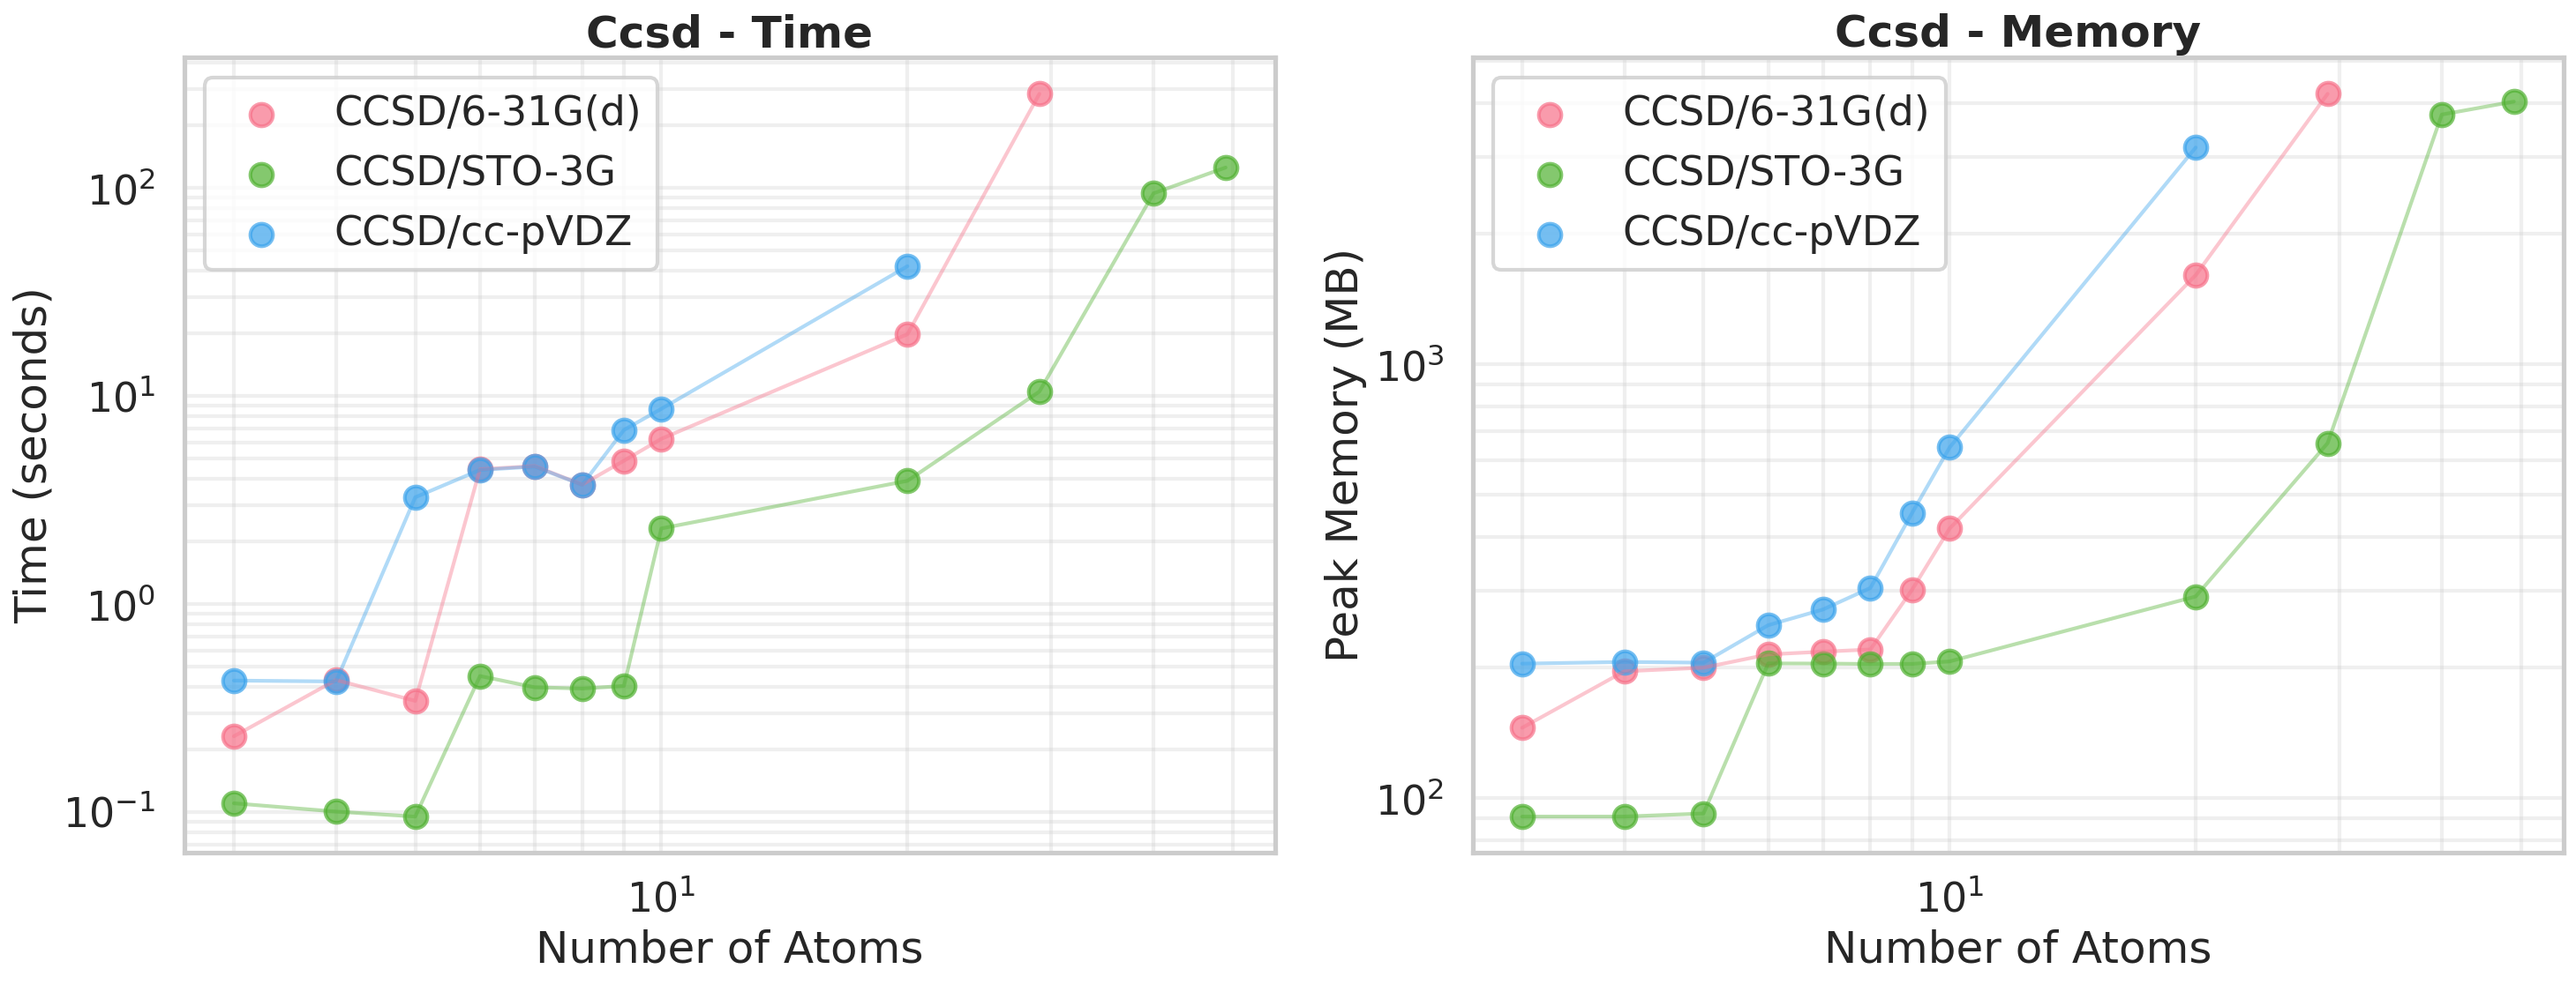
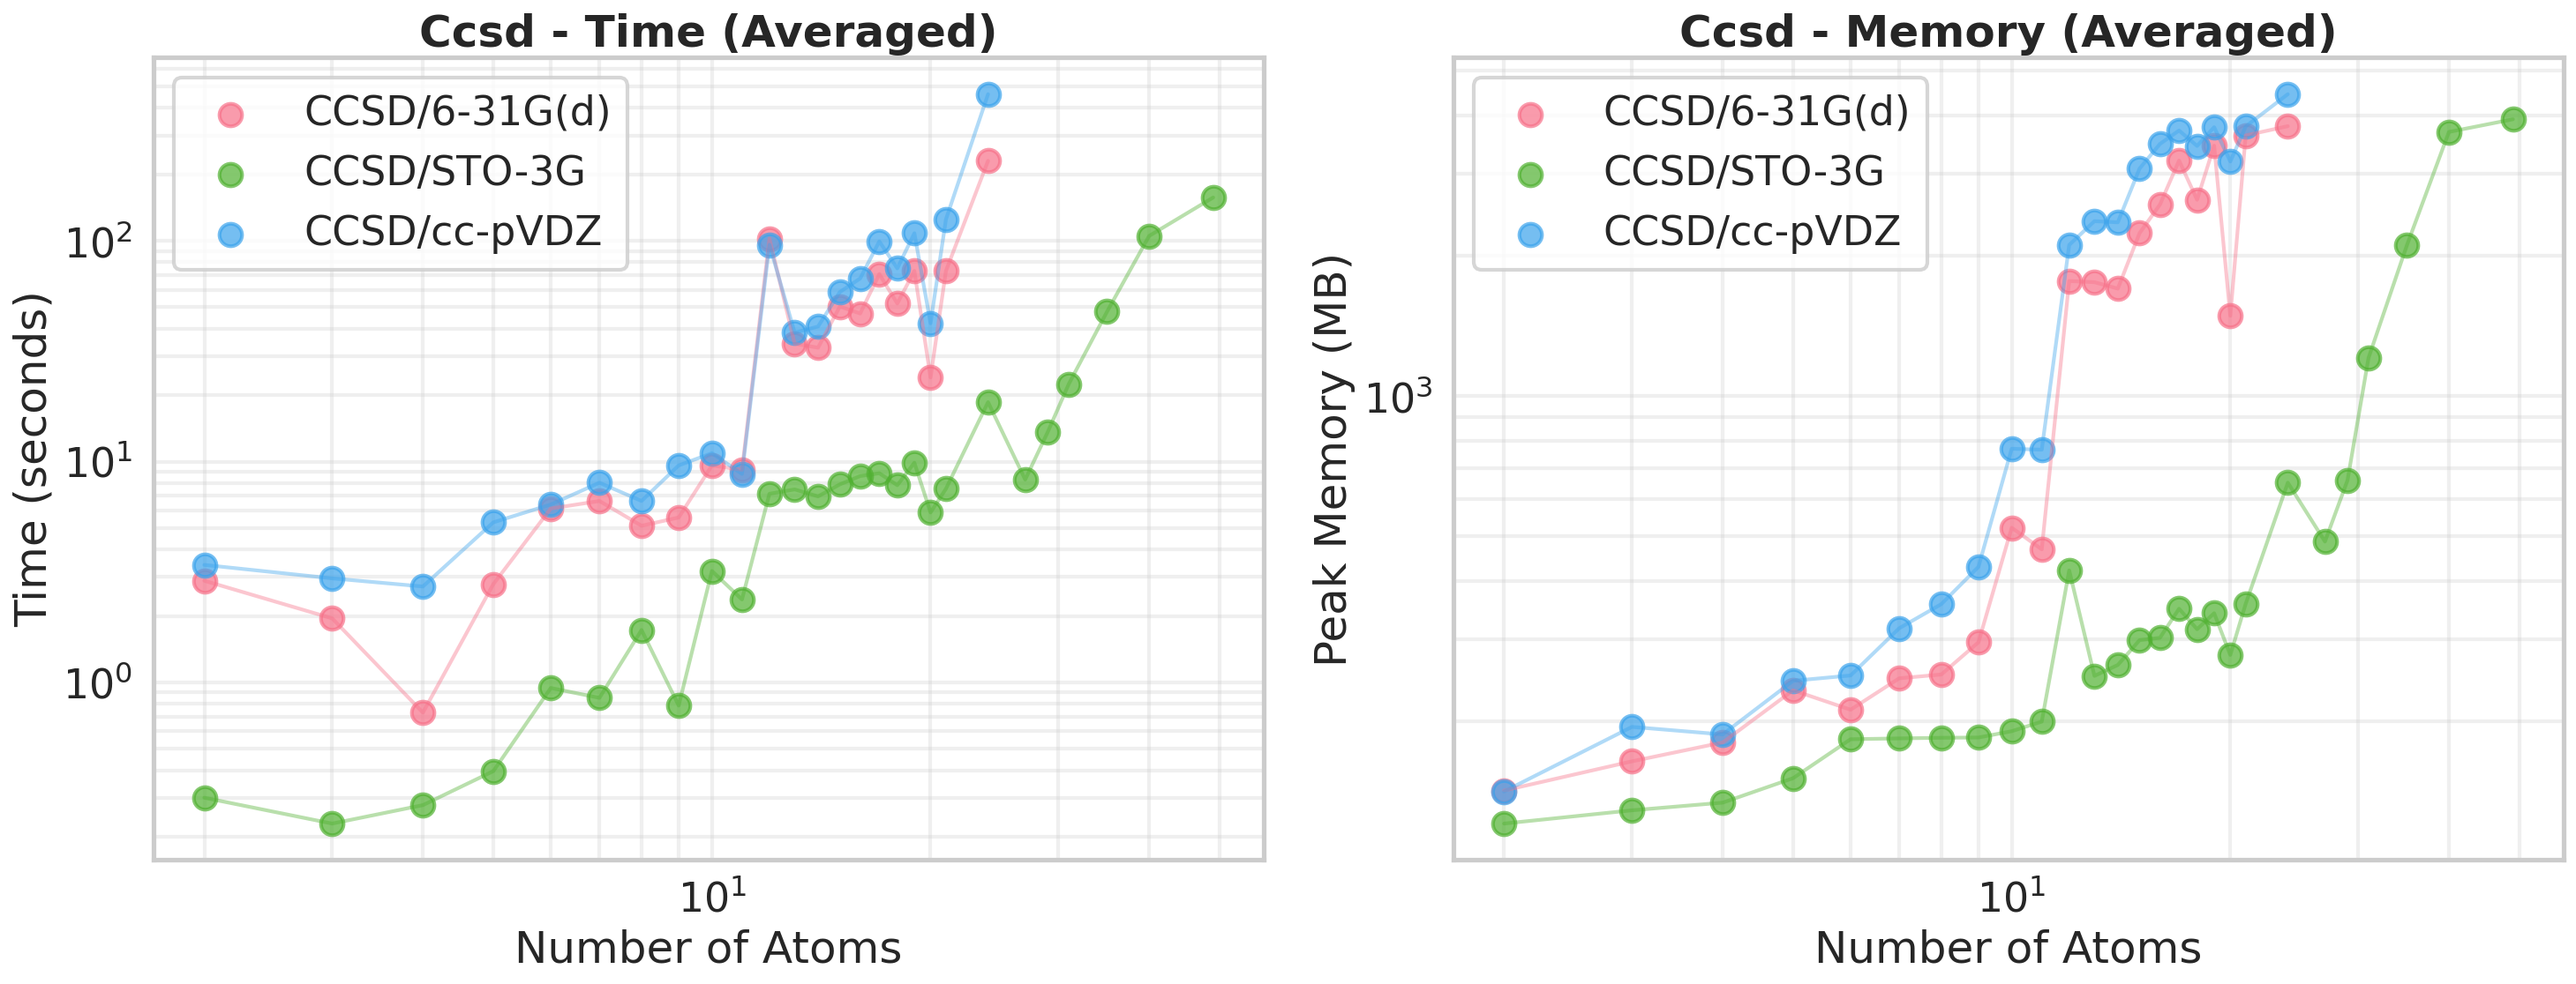
average over 3 attempts

diff --git a/scripts/plot_scaling.py b/scripts/plot_scaling.py
@@ -16,8 +16,14 @@ sns.set_theme(style="whitegrid", context="poster")
 results_file = "results/results_600.csv"
 df = pd.read_csv(results_file)
 
+# Exclude rows with a non-empty error_message
+df = df[df['error_message'].isna() | (df['error_message'] == '')]
+
 # Filter only successful calculations
 df_success = df[df['success'] == True].copy()
+
+# Exclude all rows where the time is the max time (600)
+df_success = df_success[df_success['time_seconds'] < 600]
 
 print(f"Total calculations: {len(df)}")
 print(f"Successful: {len(df_success)}")
@@ -38,108 +44,87 @@ df_plot_data = df_success.groupby(['method_label', 'natoms']).agg(
     method_category=('method_category', 'first')
 ).reset_index()
 
-
-# For combined plot: select one basis set per method
-# Prefer 6-31G(d), fallback to STO-3G, then any available
-def select_one_basis(df_in):
-    result = []
-    for method_name in df_in['method_name'].unique():
-        method_data = df_in[df_in['method_name'] == method_name]
-        # If basis set is NaN (for force fields, tight binding), include all
-        if method_data['basis_set'].isna().any():
-            result.append(method_data[method_data['basis_set'].isna()])
-        # Prefer 6-31G(d)
-        elif '6-31G(d)' in method_data['basis_set'].values:
-            result.append(method_data[method_data['basis_set'] == '6-31G(d)'])
-        # Fallback to STO-3G
-        elif 'STO-3G' in method_data['basis_set'].values:
-            result.append(method_data[method_data['basis_set'] == 'STO-3G'])
-        # Otherwise take first available
-        else:
-            if not method_data.empty:
-                basis = method_data['basis_set'].iloc[0]
-                result.append(method_data[method_data['basis_set'] == basis])
-    if not result:
-        return pd.DataFrame()
-    return pd.concat(result)
-
-df_combined = select_one_basis(df_plot_data)
-
 # Define method order by computational cost (ladder to heaven)
-method_order = [
-    'UFF',
-    'GFN2-xTB',
-    'RHF/6-31G(d)',
-    'SVWN/6-31G(d)',      # LDA
-    'PBE/6-31G(d)',       # GGA
-    'TPSS/6-31G(d)',      # Meta-GGA
-    'B3LYP/6-31G(d)',     # Hybrid
-    'wB97X/6-31G(d)',     # Range-separated hybrid
-    'MP2/6-31G(d)',
-    'CCSD/6-31G(d)',
-    'CCSD(T)/6-31G(d)',
-    'FCI/6-31G(d)',
-]
+# basis_set = '6-31G(d)'
+for basis_set in ['STO-3G', '6-31G(d)']:
+    method_order = [
+        'UFF',
+        'GFN2-xTB',
+        # f'RHF/{basis_set}',
+        # f'SVWN/{basis_set}',      # LDA
+        # f'PBE/{basis_set}',       # GGA
+        # f'TPSS/{basis_set}',      # Meta-GGA
+        # f'B3LYP/{basis_set}',     # Hybrid
+        f'wB97X/{basis_set}',     # Range-separated hybrid
+        f'MP2/{basis_set}',
+        f'CCSD/{basis_set}',
+        # 'CCSD(T)/{basis_set}',
+        f'FCI/{basis_set}',
+    ]
 
-# Create combined plot
-fig, axes = plt.subplots(2, 1, figsize=(16, 20))
+    # Filter to only include STO-3G or None (NaN) basis sets
+    df_combined = df_plot_data[df_plot_data['basis_set'].isna() | (df_plot_data['basis_set'] == basis_set)]
 
-# Get methods present in data, ordered by cost
-available_methods = df_combined['method_label'].unique()
-methods_combined = [m for m in method_order if m in available_methods]
-# Add any methods not in the predefined order (shouldn't happen but safe)
-methods_combined += [m for m in available_methods if m not in method_order]
+    # Create combined plot
+    fig, axes = plt.subplots(2, 1, figsize=(16, 20))
 
-palette = sns.color_palette("husl", n_colors=len(methods_combined))
+    # Get methods present in data, ordered by cost
+    available_methods = df_combined['method_label'].unique()
+    methods_combined = [m for m in method_order if m in available_methods]
+    # Add any methods not in the predefined order (shouldn't happen but safe)
+    # methods_combined += [m for m in available_methods if m not in method_order]
+    palette = sns.color_palette("husl", n_colors=len(methods_combined))
 
-# Plot 1: Time scaling
-ax1 = axes[0]
-for i, method in enumerate(methods_combined):
-    data = df_combined[df_combined['method_label'] == method].sort_values('natoms')
-    ax1.scatter(data['natoms'], data['time_seconds'],
-               label=method, s=150, alpha=0.7, color=palette[i])
-    if len(data) > 1:
-        ax1.plot(data['natoms'], data['time_seconds'],
-                alpha=0.4, linewidth=2, color=palette[i])
+    # Plot 1: Time scaling
+    ax1 = axes[0]
+    for i, method in enumerate(methods_combined):
+        data = df_combined[df_combined['method_label'] == method].sort_values('natoms')
+        ax1.scatter(data['natoms'], data['time_seconds'],
+                label=method, s=150, alpha=0.7, color=palette[i])
+        if len(data) > 1:
+            ax1.plot(data['natoms'], data['time_seconds'],
+                    alpha=0.4, linewidth=2, color=palette[i])
 
-ax1.set_xlabel('Number of Atoms')
-ax1.set_ylabel('Time (seconds)')
-ax1.set_title('Computational Time Scaling (Averaged)', fontweight='bold', pad=20)
-ax1.set_xscale('log')
-ax1.set_yscale('log')
-ax1.legend(bbox_to_anchor=(1.05, 1), loc='upper left', fontsize=14)
-ax1.grid(True, alpha=0.3, which='both')
-ax1.xaxis.set_minor_locator(LogLocator(base=10, subs=np.arange(2, 10)))
-ax1.yaxis.set_minor_locator(LogLocator(base=10, subs=np.arange(2, 10)))
-ax1.tick_params(axis='both', which='minor', length=4)
-ax1.tick_params(axis='both', which='major', length=8)
+    ax1.set_xlabel('Number of Atoms')
+    ax1.set_ylabel('Time (seconds)')
+    ax1.set_title('Computational Time Scaling (Averaged)', fontweight='bold', pad=20)
+    ax1.set_xscale('log')
+    ax1.set_yscale('log')
+    ax1.legend(bbox_to_anchor=(1.05, 1), loc='upper left', fontsize=14)
+    ax1.grid(True, alpha=0.3, which='both')
+    ax1.xaxis.set_minor_locator(LogLocator(base=10, subs=np.arange(2, 10)))
+    ax1.yaxis.set_minor_locator(LogLocator(base=10, subs=np.arange(2, 10)))
+    ax1.tick_params(axis='both', which='minor', length=4)
+    ax1.tick_params(axis='both', which='major', length=8)
 
-# Plot 2: Memory scaling
-ax2 = axes[1]
-for i, method in enumerate(methods_combined):
-    data = df_combined[df_combined['method_label'] == method].sort_values('natoms')
-    ax2.scatter(data['natoms'], data['peak_memory_mb'],
-               label=method, s=150, alpha=0.7, color=palette[i])
-    if len(data) > 1:
-        ax2.plot(data['natoms'], data['peak_memory_mb'],
-                alpha=0.4, linewidth=2, color=palette[i])
+    # Plot 2: Memory scaling
+    ax2 = axes[1]
+    for i, method in enumerate(methods_combined):
+        data = df_combined[df_combined['method_label'] == method].sort_values('natoms')
+        ax2.scatter(data['natoms'], data['peak_memory_mb'],
+                label=method, s=150, alpha=0.7, color=palette[i])
+        if len(data) > 1:
+            ax2.plot(data['natoms'], data['peak_memory_mb'],
+                    alpha=0.4, linewidth=2, color=palette[i])
 
-ax2.set_xlabel('Number of Atoms')
-ax2.set_ylabel('Peak Memory (MB)')
-ax2.set_title('Memory Usage Scaling (Averaged)', fontweight='bold', pad=20)
-ax2.set_xscale('log')
-ax2.set_yscale('log')
-ax2.legend(bbox_to_anchor=(1.05, 1), loc='upper left', fontsize=14)
-ax2.grid(True, alpha=0.3, which='both')
-ax2.xaxis.set_minor_locator(LogLocator(base=10, subs=np.arange(2, 10)))
-ax2.yaxis.set_minor_locator(LogLocator(base=10, subs=np.arange(2, 10)))
-ax2.tick_params(axis='both', which='minor', length=4)
-ax2.tick_params(axis='both', which='major', length=8)
+    ax2.set_xlabel('Number of Atoms')
+    ax2.set_ylabel('Peak Memory (MB)')
+    ax2.set_title('Memory Usage Scaling (Averaged)', fontweight='bold', pad=20)
+    ax2.set_xscale('log')
+    ax2.set_yscale('log')
+    ax2.legend(bbox_to_anchor=(1.05, 1), loc='upper left', fontsize=14)
+    ax2.grid(True, alpha=0.3, which='both')
+    ax2.xaxis.set_minor_locator(LogLocator(base=10, subs=np.arange(2, 10)))
+    ax2.yaxis.set_minor_locator(LogLocator(base=10, subs=np.arange(2, 10)))
+    ax2.tick_params(axis='both', which='minor', length=4)
+    ax2.tick_params(axis='both', which='major', length=8)
 
-plt.tight_layout()
-plt.savefig('results/scaling_all_methods.png', dpi=150, bbox_inches='tight')
-print(f"\nSaved: results/scaling_all_methods.png")
+    plt.tight_layout()
+    plt.savefig(f'results/scaling_{basis_set}.png', dpi=150, bbox_inches='tight')
+    print(f"\nSaved: results/scaling_{basis_set}.png")
 
+
+############################################################################################
 # Plot by method category
 for category in df_plot_data['method_category'].unique():
     df_cat = df_plot_data[df_plot_data['method_category'] == category]

diff --git a/scripts/benchmark_chemistry.py b/scripts/benchmark_chemistry.py
@@ -6,6 +6,29 @@ Benchmarks various computational chemistry methods (force fields, tight binding,
 HF, DFT, MP2, CCSD, CCSD(T), FCI) across molecular structures of varying sizes.
 """
 
+# === GLOBAL BENCHMARK SETTINGS ===
+N_REPS = 1  # Number of repetitions for each calculation
+BENCHMARK_METHODS = [
+    # These methods all scale formally as $O(N^4)$ (or often $O(N^3)$ with efficient implementations)
+    # "RHF", # Restricted Hartree-Fock
+    # "SVWN", # LDA
+    # "PBE", # GGA
+    # "TPSS", # Meta-GGA
+    # "B3LYP", # Global Hybrid
+    "wB97X", # Range-separated Hybrid
+    # Higher scaling
+    "MP2",
+    "CCSD",
+    "CCSD(T)",
+    "FCI",
+]
+BENCHMARK_BASIS_SETS = [
+    # "STO-3G",
+    "6-31G(d)",
+    # "cc-pVDZ"
+]
+# =================================
+
 import argparse
 import csv
 import os
@@ -137,6 +160,7 @@ class BenchmarkRunner:
             "FCI": 20,
             "CCSD(T)": 50,
             "CCSD": 100,
+            "UFF": 100,  # Limiting UFF (RDKitCalculator) to 100 atoms
         }
 
         # Check predefined limits
@@ -219,11 +243,17 @@ class BenchmarkRunner:
                 result["energy_hartree"] = calc_result.get("energy_hartree", "")
                 result["nbasis"] = calc_result.get("nbasis", "")
             else:
-                result["error_message"] = calc_result.get("error_message", "")
+                err_msg = calc_result.get("error_message", "")
+                # Replace all , and ; with a whitespace
+                if isinstance(err_msg, str):
+                    err_msg = err_msg.replace(",", " ").replace(";", " ")
+                result["error_message"] = err_msg
         else:
-            result["error_message"] = timeout_result.get(
-                "error_message", "UNKNOWN_ERROR"
-            )
+            err_msg = timeout_result.get("error_message", "UNKNOWN_ERROR")
+            # Replace all , and ; with a whitespace
+            if isinstance(err_msg, str):
+                err_msg = err_msg.replace(",", " ").replace(";", " ")
+            result["error_message"] = err_msg
 
             # Update timeout threshold if timeout occurred
             if result["error_message"] == "TIMEOUT":
@@ -258,10 +288,11 @@ class BenchmarkRunner:
         # Define all calculations to run
         calculations = []
 
-        # Force field: UFF
+        # Force field: UFF (limit to natoms <= 100)
         for xyz_file, natoms in molecules:
-            calc = RDKitCalculator()
-            calculations.append((calc, xyz_file, natoms))
+            if natoms <= 100:
+                calc = RDKitCalculator()
+                calculations.append((calc, xyz_file, natoms))
 
         # Tight binding: GFN2-xTB
         for xyz_file, natoms in molecules:
@@ -269,36 +300,25 @@ class BenchmarkRunner:
             calculations.append((calc, xyz_file, natoms))
 
         # HF, DFT, MP2, CCSD, CCSD(T), FCI with multiple basis sets
-        basis_sets = ["STO-3G", "6-31G(d)", "cc-pVDZ"]
-        methods = [
-            "RHF",
-            "SVWN",
-            "PBE",
-            "TPSS",
-            "B3LYP",
-            "wB97X",
-            "MP2",
-            "CCSD",
-            "CCSD(T)",
-            "FCI",
-        ]
-
-        for method in methods:
-            for basis in basis_sets:
+        for method in BENCHMARK_METHODS:
+            for basis in BENCHMARK_BASIS_SETS:
                 for xyz_file, natoms in molecules:
                     calc = PySCFCalculator(method, basis)
                     calculations.append((calc, xyz_file, natoms))
 
         # Run all calculations with progress bar
         num_calculations = len(calculations)
-        total_runs = num_calculations * 3
-        self.logger.info(f"Running {total_runs} calculations ({num_calculations} unique calculations, 3 repetitions each)...")
+        total_runs = num_calculations * N_REPS
+        self.logger.info(f"Running {total_runs} calculations ({num_calculations} unique calculations, {N_REPS} repetitions each)...")
         skipped = 0
         failed = 0
         succeeded = 0
 
-        for calc, xyz_file, natoms in tqdm(calculations, desc="Benchmarking"):
-            for repetition in range(1, 4):  # Run 3 times
+        calc_counter = 0
+        total_calcs = len(calculations)
+        for calc, xyz_file, natoms in tqdm(calculations, desc="Benchmarking", total=total_calcs):
+            calc_counter += 1
+            for repetition in range(1, N_REPS + 1):  # Run N_REPS times
                 method_info = calc.get_method_info()
                 molecule_file = os.path.basename(xyz_file)
 
@@ -325,7 +345,7 @@ class BenchmarkRunner:
                     continue
 
                 # Log start of calculation
-                self.logger.info(f"START: {method_info['method_name']}/{method_info['basis_set']} on {molecule_file} ({natoms} atoms) rep {repetition}")
+                self.logger.info(f"START: {calc_counter}/{total_calcs} {method_info['method_name']}/{method_info['basis_set']} on {molecule_file} ({natoms} atoms) rep {repetition}")
 
                 # Run calculation
                 result = self.run_calculation(
@@ -416,5 +436,7 @@ def main():
     return 0
 
 
+if __name__ == "__main__":
+    exit(main())
 if __name__ == "__main__":
     exit(main())
